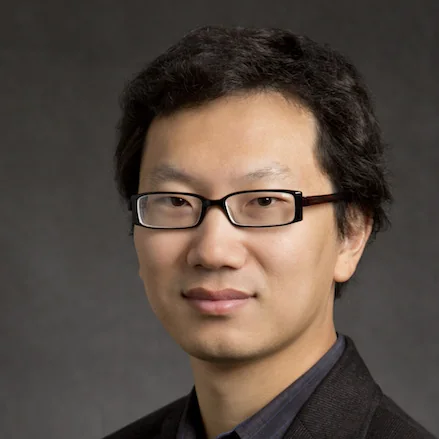
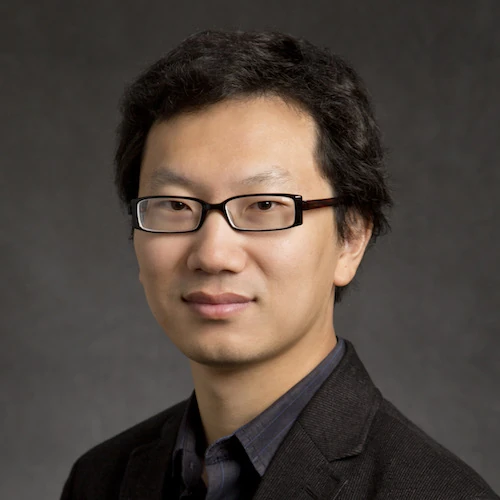
People: center the PI's head in his photo
The photo had been cropped to center the eyes and nose. His head is turned, so
that pushed the head to the right of the frame. It now uses the original
framing, where the whole head sits in the middle. One roster photo with the
same problem is re-cropped from its original.

stamp_assets.py now also stamps images named in a page, each with a hash of
its own file, so a replaced photo is not held back by a cached copy.

diff --git a/research.html b/research.html
@@ -10,12 +10,12 @@
   <meta property="og:type" content="website">
   <meta property="og:title" content="Research | Z Lab">
   <meta property="og:description" content="Matter in extremes, Machine for extremes: the two research domains of the Z Lab at the University of Michigan.">
-  <link rel="icon" href="assets/img/favicon.svg" type="image/svg+xml">
+  <link rel="icon" href="assets/img/favicon.svg?v=831e58c5df" type="image/svg+xml">
   <link rel="preconnect" href="https://fonts.googleapis.com">
   <link rel="preconnect" href="https://fonts.gstatic.com" crossorigin>
   <link rel="stylesheet" href="https://fonts.googleapis.com/css2?family=IBM+Plex+Mono:wght@400;500&amp;family=IBM+Plex+Sans:wght@400;500;600&amp;family=STIX+Two+Text:ital,wght@0,400..700;1,400..700&amp;display=swap">
-  <link rel="stylesheet" href="assets/css/style.css?v=a803def3a6">
-  <script src="assets/js/theme-init.js?v=a803def3a6"></script>
+  <link rel="stylesheet" href="assets/css/style.css?v=a0ee6fa66f">
+  <script src="assets/js/theme-init.js?v=a0ee6fa66f"></script>
 </head>
 <body>
   <a class="skip-link" href="#main">Skip to content</a>
@@ -235,7 +235,7 @@
         <figure class="unit-fig" data-fig="go2w">
           <div class="plate">
             <div class="stage3" data-stage role="img" tabindex="0" aria-label="A line drawing of a Unitree Go2-W, a four-legged robot with a wheel at the end of each leg. It rolls in from the left on its wheels, crouches, pushes off, turns a full backward somersault in the air with its legs tucked, lands on its wheels, and rolls away to the right. Drag sideways, or use the left and right arrow keys, to see it from another side.">
-              <img class="go2w-poster" src="assets/img/go2w-flip.webp" alt="" width="1225" height="800" loading="lazy">
+              <img class="go2w-poster" src="assets/img/go2w-flip.webp?v=b69d685136" alt="" width="1225" height="800" loading="lazy">
             </div>
             <div class="fig-controls">
               <button class="btn btn--small" type="button" data-play aria-pressed="true">Pause</button>
@@ -280,14 +280,14 @@
 
       <article class="unit unit--team" id="atombot">
         <div class="unit-text">
-          <button class="atombot-mark" type="button" data-atombot aria-label="The Atombot mark. Play its animation again."><img src="assets/img/atombot-mark.webp" alt="" width="640" height="588"></button>
+          <button class="atombot-mark" type="button" data-atombot aria-label="The Atombot mark. Play its animation again."><img src="assets/img/atombot-mark.webp?v=46dc0d3f2f" alt="" width="640" height="588"></button>
           <h3>Atombot</h3>
           <p>The lab's student robotics team: about 50 students building swarm and wheel-legged robots with the Multidisciplinary Design Program.</p>
           <p class="unit-links"><a href="https://mdp.engin.umich.edu/research_teams/atombot-27/">Join through MDP</a><a href="people.html#atombot-alums">Alums</a><a href="calendar.html#atombot-calendar">Calendar</a></p>
         </div>
         <figure class="unit-fig unit-fig--photo">
-          <a href="assets/img/atombot-kickoff.webp" aria-label="Open the Atombot kickoff photo at full size">
-            <img src="assets/img/atombot-kickoff-800.webp" srcset="assets/img/atombot-kickoff-800.webp 800w, assets/img/atombot-kickoff.webp 1600w" sizes="(max-width: 1099px) 92vw, 660px" width="1600" height="883" loading="lazy" decoding="async" alt="A large group of Atombot team members standing together below a projection screen that shows the Atombot mark and the words Atombot, Z Lab.">
+          <a href="assets/img/atombot-kickoff.webp?v=c0416d7151" aria-label="Open the Atombot kickoff photo at full size">
+            <img src="assets/img/atombot-kickoff-800.webp?v=9d99900955" srcset="assets/img/atombot-kickoff-800.webp 800w, assets/img/atombot-kickoff.webp 1600w" sizes="(max-width: 1099px) 92vw, 660px" width="1600" height="883" loading="lazy" decoding="async" alt="A large group of Atombot team members standing together below a projection screen that shows the Atombot mark and the words Atombot, Z Lab.">
           </a>
           <figcaption class="caption">Atombot project kickoff, with support from the Multidisciplinary Design Program.</figcaption>
         </figure>
@@ -300,8 +300,8 @@
         <p>The lab's own overview: Matter on the left, Machine on the right.</p>
       </div>
       <figure class="overview">
-        <a href="assets/img/overview.webp" aria-label="Open the overview figure at full size">
-          <img src="assets/img/overview.webp" width="1600" height="900" loading="lazy" decoding="async" alt="Overview slide titled Z Lab, Matter and Machine. The Matter half covers rare events and long timescale phenomena, the physics and chemistry of liquids, glasses, and complex fluids (water, metallic, ionic, molten salts), and neutron scattering, sources, and instrumentation. The Machine half covers robots in extreme environments, soft robots and human-compatible machines with an untethered soft robotic arm and the Kraken simulation platform, swarm robots and collective intelligence, and wheel-leg hybrid robots.">
+        <a href="assets/img/overview.webp?v=374e2c8b13" aria-label="Open the overview figure at full size">
+          <img src="assets/img/overview.webp?v=374e2c8b13" width="1600" height="900" loading="lazy" decoding="async" alt="Overview slide titled Z Lab, Matter and Machine. The Matter half covers rare events and long timescale phenomena, the physics and chemistry of liquids, glasses, and complex fluids (water, metallic, ionic, molten salts), and neutron scattering, sources, and instrumentation. The Machine half covers robots in extreme environments, soft robots and human-compatible machines with an untethered soft robotic arm and the Kraken simulation platform, swarm robots and collective intelligence, and wheel-leg hybrid robots.">
         </a>
       </figure>
     </section>
@@ -344,19 +344,19 @@
     </div>
   </footer>
 
-  <script src="assets/js/site.js?v=a803def3a6" defer></script>
-  <script src="assets/js/atombot-mark.js?v=a803def3a6" defer></script>
-  <script src="assets/js/figkit.js?v=a803def3a6" defer></script>
-  <script src="assets/js/fig3d.js?v=a803def3a6" defer></script>
-  <script src="assets/js/figs/flood.js?v=a803def3a6" defer></script>
-  <script src="assets/js/figs/water-density.js?v=a803def3a6" defer></script>
-  <script src="assets/js/figs/clocks-data.js?v=a803def3a6" defer></script>
-  <script src="assets/js/figs/clocks.js?v=a803def3a6" defer></script>
-  <script src="assets/js/figs/scale.js?v=a803def3a6" defer></script>
-  <script src="assets/js/figs/arm.js?v=a803def3a6" defer></script>
-  <script src="assets/js/figs/soft.js?v=a803def3a6" defer></script>
-  <script src="assets/js/figs/swarm.js?v=a803def3a6" defer></script>
-  <script src="assets/js/figs/go2w-model.js?v=a803def3a6" defer></script>
-  <script src="assets/js/figs/go2w.js?v=a803def3a6" defer></script>
+  <script src="assets/js/site.js?v=a0ee6fa66f" defer></script>
+  <script src="assets/js/atombot-mark.js?v=a0ee6fa66f" defer></script>
+  <script src="assets/js/figkit.js?v=a0ee6fa66f" defer></script>
+  <script src="assets/js/fig3d.js?v=a0ee6fa66f" defer></script>
+  <script src="assets/js/figs/flood.js?v=a0ee6fa66f" defer></script>
+  <script src="assets/js/figs/water-density.js?v=a0ee6fa66f" defer></script>
+  <script src="assets/js/figs/clocks-data.js?v=a0ee6fa66f" defer></script>
+  <script src="assets/js/figs/clocks.js?v=a0ee6fa66f" defer></script>
+  <script src="assets/js/figs/scale.js?v=a0ee6fa66f" defer></script>
+  <script src="assets/js/figs/arm.js?v=a0ee6fa66f" defer></script>
+  <script src="assets/js/figs/soft.js?v=a0ee6fa66f" defer></script>
+  <script src="assets/js/figs/swarm.js?v=a0ee6fa66f" defer></script>
+  <script src="assets/js/figs/go2w-model.js?v=a0ee6fa66f" defer></script>
+  <script src="assets/js/figs/go2w.js?v=a0ee6fa66f" defer></script>
 </body>
 </html>

diff --git a/index.html b/index.html
@@ -10,12 +10,12 @@
   <meta property="og:type" content="website">
   <meta property="og:title" content="Z Lab | Matter and Machine | University of Michigan">
   <meta property="og:description" content="The Z Lab at the University of Michigan studies matter in extremes and builds machines for extremes: liquids, glasses, and complex fluids, neutron scattering, and robots for extreme environments.">
-  <link rel="icon" href="assets/img/favicon.svg" type="image/svg+xml">
+  <link rel="icon" href="assets/img/favicon.svg?v=831e58c5df" type="image/svg+xml">
   <link rel="preconnect" href="https://fonts.googleapis.com">
   <link rel="preconnect" href="https://fonts.gstatic.com" crossorigin>
   <link rel="stylesheet" href="https://fonts.googleapis.com/css2?family=IBM+Plex+Mono:wght@400;500&amp;family=IBM+Plex+Sans:wght@400;500;600&amp;family=STIX+Two+Text:ital,wght@0,400..700;1,400..700&amp;display=swap">
-  <link rel="stylesheet" href="assets/css/style.css?v=a803def3a6">
-  <script src="assets/js/theme-init.js?v=a803def3a6"></script>
+  <link rel="stylesheet" href="assets/css/style.css?v=a0ee6fa66f">
+  <script src="assets/js/theme-init.js?v=a0ee6fa66f"></script>
 </head>
 <body>
   <a class="skip-link" href="#main">Skip to content</a>
@@ -81,7 +81,7 @@
     </section>
 
     <section class="section sheet band" aria-labelledby="home-atombot">
-      <button class="atombot-mark" type="button" data-atombot aria-label="The Atombot mark. Play its animation again."><img src="assets/img/atombot-mark.webp" alt="" width="640" height="588"></button>
+      <button class="atombot-mark" type="button" data-atombot aria-label="The Atombot mark. Play its animation again."><img src="assets/img/atombot-mark.webp?v=46dc0d3f2f" alt="" width="640" height="588"></button>
       <div class="band-text">
         <h2 id="home-atombot">Atombot</h2>
         <p>The lab's student robotics team builds swarm robots and wheel-legged robots, working with the Multidisciplinary Design Program.</p>
@@ -150,10 +150,10 @@
     </div>
   </footer>
 
-  <script src="data/publications.js?v=a803def3a6" defer></script>
-  <script src="assets/js/site.js?v=a803def3a6" defer></script>
-  <script src="assets/js/atombot-mark.js?v=a803def3a6" defer></script>
-  <script src="assets/js/liquid.js?v=a803def3a6" defer></script>
-  <script src="assets/js/home.js?v=a803def3a6" defer></script>
+  <script src="data/publications.js?v=a0ee6fa66f" defer></script>
+  <script src="assets/js/site.js?v=a0ee6fa66f" defer></script>
+  <script src="assets/js/atombot-mark.js?v=a0ee6fa66f" defer></script>
+  <script src="assets/js/liquid.js?v=a0ee6fa66f" defer></script>
+  <script src="assets/js/home.js?v=a0ee6fa66f" defer></script>
 </body>
 </html>

diff --git a/people.html b/people.html
@@ -10,12 +10,12 @@
   <meta property="og:type" content="website">
   <meta property="og:title" content="People | Z Lab">
   <meta property="og:description" content="The principal investigator, postdocs, students, and alums of the Z Lab at the University of Michigan.">
-  <link rel="icon" href="assets/img/favicon.svg" type="image/svg+xml">
+  <link rel="icon" href="assets/img/favicon.svg?v=831e58c5df" type="image/svg+xml">
   <link rel="preconnect" href="https://fonts.googleapis.com">
   <link rel="preconnect" href="https://fonts.gstatic.com" crossorigin>
   <link rel="stylesheet" href="https://fonts.googleapis.com/css2?family=IBM+Plex+Mono:wght@400;500&amp;family=IBM+Plex+Sans:wght@400;500;600&amp;family=STIX+Two+Text:ital,wght@0,400..700;1,400..700&amp;display=swap">
-  <link rel="stylesheet" href="assets/css/style.css?v=a803def3a6">
-  <script src="assets/js/theme-init.js?v=a803def3a6"></script>
+  <link rel="stylesheet" href="assets/css/style.css?v=a0ee6fa66f">
+  <script src="assets/js/theme-init.js?v=a0ee6fa66f"></script>
 </head>
 <body>
   <a class="skip-link" href="#main">Skip to content</a>
@@ -55,7 +55,7 @@
       <div>
         <div class="pi">
           <div class="pi-photo">
-            <img src="assets/img/people/y-z.webp" width="500" height="500" alt="Portrait of Y Z">
+            <img src="assets/img/people/y-z.webp?v=d9de868593" width="500" height="500" alt="Portrait of Y Z">
           </div>
           <div>
             <p class="label">Principal investigator</p>
@@ -181,8 +181,8 @@
     </div>
   </footer>
 
-  <script src="data/people.js?v=a803def3a6" defer></script>
-  <script src="assets/js/site.js?v=a803def3a6" defer></script>
-  <script src="assets/js/people.js?v=a803def3a6" defer></script>
+  <script src="data/people.js?v=a0ee6fa66f" defer></script>
+  <script src="assets/js/site.js?v=a0ee6fa66f" defer></script>
+  <script src="assets/js/people.js?v=a0ee6fa66f" defer></script>
 </body>
 </html>

diff --git a/publications.html b/publications.html
@@ -10,12 +10,12 @@
   <meta property="og:type" content="website">
   <meta property="og:title" content="Publications | Z Lab">
   <meta property="og:description" content="Journal articles and conference proceedings from the Z Lab, searchable by title, author, journal, and year.">
-  <link rel="icon" href="assets/img/favicon.svg" type="image/svg+xml">
+  <link rel="icon" href="assets/img/favicon.svg?v=831e58c5df" type="image/svg+xml">
   <link rel="preconnect" href="https://fonts.googleapis.com">
   <link rel="preconnect" href="https://fonts.gstatic.com" crossorigin>
   <link rel="stylesheet" href="https://fonts.googleapis.com/css2?family=IBM+Plex+Mono:wght@400;500&amp;family=IBM+Plex+Sans:wght@400;500;600&amp;family=STIX+Two+Text:ital,wght@0,400..700;1,400..700&amp;display=swap">
-  <link rel="stylesheet" href="assets/css/style.css?v=a803def3a6">
-  <script src="assets/js/theme-init.js?v=a803def3a6"></script>
+  <link rel="stylesheet" href="assets/css/style.css?v=a0ee6fa66f">
+  <script src="assets/js/theme-init.js?v=a0ee6fa66f"></script>
 </head>
 <body>
   <a class="skip-link" href="#main">Skip to content</a>
@@ -154,8 +154,8 @@
     </div>
   </footer>
 
-  <script src="data/publications.js?v=a803def3a6" defer></script>
-  <script src="assets/js/site.js?v=a803def3a6" defer></script>
-  <script src="assets/js/publications.js?v=a803def3a6" defer></script>
+  <script src="data/publications.js?v=a0ee6fa66f" defer></script>
+  <script src="assets/js/site.js?v=a0ee6fa66f" defer></script>
+  <script src="assets/js/publications.js?v=a0ee6fa66f" defer></script>
 </body>
 </html>

diff --git a/teaching.html b/teaching.html
@@ -10,12 +10,12 @@
   <meta property="og:type" content="website">
   <meta property="og:title" content="Teaching | Z Lab">
   <meta property="og:description" content="Courses taught by Y Z at the University of Michigan and the University of Illinois Urbana-Champaign.">
-  <link rel="icon" href="assets/img/favicon.svg" type="image/svg+xml">
+  <link rel="icon" href="assets/img/favicon.svg?v=831e58c5df" type="image/svg+xml">
   <link rel="preconnect" href="https://fonts.googleapis.com">
   <link rel="preconnect" href="https://fonts.gstatic.com" crossorigin>
   <link rel="stylesheet" href="https://fonts.googleapis.com/css2?family=IBM+Plex+Mono:wght@400;500&amp;family=IBM+Plex+Sans:wght@400;500;600&amp;family=STIX+Two+Text:ital,wght@0,400..700;1,400..700&amp;display=swap">
-  <link rel="stylesheet" href="assets/css/style.css?v=a803def3a6">
-  <script src="assets/js/theme-init.js?v=a803def3a6"></script>
+  <link rel="stylesheet" href="assets/css/style.css?v=a0ee6fa66f">
+  <script src="assets/js/theme-init.js?v=a0ee6fa66f"></script>
 </head>
 <body>
   <a class="skip-link" href="#main">Skip to content</a>
@@ -98,6 +98,6 @@
     </div>
   </footer>
 
-  <script src="assets/js/site.js?v=a803def3a6" defer></script>
+  <script src="assets/js/site.js?v=a0ee6fa66f" defer></script>
 </body>
 </html>

diff --git a/code.html b/code.html
@@ -10,12 +10,12 @@
   <meta property="og:type" content="website">
   <meta property="og:title" content="Software | Z Lab">
   <meta property="og:description" content="Open tools from the Z Lab, including LiquidLib and Kraken.">
-  <link rel="icon" href="assets/img/favicon.svg" type="image/svg+xml">
+  <link rel="icon" href="assets/img/favicon.svg?v=831e58c5df" type="image/svg+xml">
   <link rel="preconnect" href="https://fonts.googleapis.com">
   <link rel="preconnect" href="https://fonts.gstatic.com" crossorigin>
   <link rel="stylesheet" href="https://fonts.googleapis.com/css2?family=IBM+Plex+Mono:wght@400;500&amp;family=IBM+Plex+Sans:wght@400;500;600&amp;family=STIX+Two+Text:ital,wght@0,400..700;1,400..700&amp;display=swap">
-  <link rel="stylesheet" href="assets/css/style.css?v=a803def3a6">
-  <script src="assets/js/theme-init.js?v=a803def3a6"></script>
+  <link rel="stylesheet" href="assets/css/style.css?v=a0ee6fa66f">
+  <script src="assets/js/theme-init.js?v=a0ee6fa66f"></script>
 </head>
 <body>
   <a class="skip-link" href="#main">Skip to content</a>
@@ -115,6 +115,6 @@
     </div>
   </footer>
 
-  <script src="assets/js/site.js?v=a803def3a6" defer></script>
+  <script src="assets/js/site.js?v=a0ee6fa66f" defer></script>
 </body>
 </html>

diff --git a/calendar.html b/calendar.html
@@ -10,12 +10,12 @@
   <meta property="og:type" content="website">
   <meta property="og:title" content="Calendar | Z Lab">
   <meta property="og:description" content="The Z Lab and Atombot calendars.">
-  <link rel="icon" href="assets/img/favicon.svg" type="image/svg+xml">
+  <link rel="icon" href="assets/img/favicon.svg?v=831e58c5df" type="image/svg+xml">
   <link rel="preconnect" href="https://fonts.googleapis.com">
   <link rel="preconnect" href="https://fonts.gstatic.com" crossorigin>
   <link rel="stylesheet" href="https://fonts.googleapis.com/css2?family=IBM+Plex+Mono:wght@400;500&amp;family=IBM+Plex+Sans:wght@400;500;600&amp;family=STIX+Two+Text:ital,wght@0,400..700;1,400..700&amp;display=swap">
-  <link rel="stylesheet" href="assets/css/style.css?v=a803def3a6">
-  <script src="assets/js/theme-init.js?v=a803def3a6"></script>
+  <link rel="stylesheet" href="assets/css/style.css?v=a0ee6fa66f">
+  <script src="assets/js/theme-init.js?v=a0ee6fa66f"></script>
 </head>
 <body>
   <a class="skip-link" href="#main">Skip to content</a>
@@ -101,6 +101,6 @@
     </div>
   </footer>
 
-  <script src="assets/js/site.js?v=a803def3a6" defer></script>
+  <script src="assets/js/site.js?v=a0ee6fa66f" defer></script>
 </body>
 </html>

diff --git a/404.html b/404.html
@@ -18,12 +18,12 @@
       document.head.appendChild(base);
     })();
   </script>
-  <link rel="icon" href="assets/img/favicon.svg" type="image/svg+xml">
+  <link rel="icon" href="assets/img/favicon.svg?v=831e58c5df" type="image/svg+xml">
   <link rel="preconnect" href="https://fonts.googleapis.com">
   <link rel="preconnect" href="https://fonts.gstatic.com" crossorigin>
   <link rel="stylesheet" href="https://fonts.googleapis.com/css2?family=IBM+Plex+Mono:wght@400;500&amp;family=IBM+Plex+Sans:wght@400;500;600&amp;family=STIX+Two+Text:ital,wght@0,400..700;1,400..700&amp;display=swap">
-  <link rel="stylesheet" href="assets/css/style.css?v=a803def3a6">
-  <script src="assets/js/theme-init.js?v=a803def3a6"></script>
+  <link rel="stylesheet" href="assets/css/style.css?v=a0ee6fa66f">
+  <script src="assets/js/theme-init.js?v=a0ee6fa66f"></script>
 </head>
 <body>
   <a class="skip-link" href="#main">Skip to content</a>
@@ -93,6 +93,6 @@
     </div>
   </footer>
 
-  <script src="assets/js/site.js?v=a803def3a6" defer></script>
+  <script src="assets/js/site.js?v=a0ee6fa66f" defer></script>
 </body>
 </html>

diff --git a/tools/stamp_assets.py b/tools/stamp_assets.py
@@ -14,6 +14,9 @@ Run it after changing anything under assets/ or data/, before publishing:
 The version is a hash of every file under assets/ and data/, so it changes exactly when
 one of them does, and running the tool twice changes nothing. Scripts that fetch further
 files themselves (the game, the robot's model) pass their own version along.
+
+Images named in a page (src="assets/img/...") are stamped too, each with a hash of that one
+file, so a replaced photo shows at once and the others stay cached.
 """
 import glob
 import hashlib
@@ -23,6 +26,7 @@ import sys
 
 ROOT = os.path.normpath(os.path.join(os.path.dirname(os.path.abspath(__file__)), ".."))
 LINK = re.compile(r'\b(href|src)="((?:assets|data)/[^"?#]+\.(?:css|js))(?:\?v=[0-9a-f]+)?"')
+IMAGE = re.compile(r'\b(href|src)="(assets/img/[^"?#]+\.(?:webp|png|jpe?g|gif|svg|avif))(?:\?v=[0-9a-f]+)?"')
 
 
 def version():
@@ -40,13 +44,33 @@ def version():
     return digest.hexdigest()[:10]
 
 
+def file_version(path):
+    """A hash of one file, or None if a page names a file that is not there."""
+    full = os.path.join(ROOT, path)
+    if not os.path.isfile(full):
+        return None
+    with open(full, "rb") as fh:
+        return hashlib.sha256(fh.read()).hexdigest()[:10]
+
+
+def stamp_image(match, missing):
+    v = file_version(match.group(2))
+    if v is None:
+        missing.add(match.group(2))
+        return match.group(0)
+    return '%s="%s?v=%s"' % (match.group(1), match.group(2), v)
+
+
 def main(check):
     v = version()
     stale = []
+    missing = set()
     for page in sorted(glob.glob(os.path.join(ROOT, "*.html"))):
         with open(page, encoding="utf-8") as fh:
             old = fh.read()
         new, count = LINK.subn(lambda m: '%s="%s?v=%s"' % (m.group(1), m.group(2), v), old)
+        new, images = IMAGE.subn(lambda m: stamp_image(m, missing), new)
+        count += images
         name = os.path.basename(page)
         if new != old:
             stale.append(name)
@@ -55,6 +79,8 @@ def main(check):
                     fh.write(new)
         print("%-18s %2d links %s" % (name, count, "out of date" if new != old and check else "stamped" if new != old else "current"))
     print("version", v)
+    if missing:
+        sys.exit("a page names an image that does not exist: " + ", ".join(sorted(missing)))
     if check and stale:
         sys.exit("out of date: " + ", ".join(stale) + ". Run python3 tools/stamp_assets.py")
 

diff --git a/README.md b/README.md
@@ -93,9 +93,10 @@ each file explains the fields.
 - **Add a paper:** `data/publications.js`. Copy an entry and paste it at the top.
   The Publications page and the home page list update themselves.
 - **Add or move a person:** `data/people.js`. Drop their photo in `assets/img/people/`,
-  cropped square with the face centered and the eyes a little above the middle so it lines
-  up with the rest (about 560 px a side is plenty; WebP or JPEG). People without a photo
-  get a monogram. Moving someone to `alumni` is a cut and paste.
+  cropped square with the head centered and the eyes a little above the middle so it lines
+  up with the rest (about 560 px a side is plenty; WebP or JPEG). Center the whole head,
+  hair included, not the eyes and nose: when a head is turned, centering the features
+  pushes the head to one side of the frame. People without a photo get a monogram. Moving someone to `alumni` is a cut and paste.
 - **Everything else** (research text, software, courses) is ordinary HTML in the page files.
   The header and footer are repeated in each page, so a navigation change means editing
   all eight.
@@ -215,8 +216,9 @@ python3 tools/stamp_assets.py
 It stamps every page's links to the site's own styles and scripts with a version
 (`style.css?v=...`) that changes whenever one of those files does. Without it, a returning
 visitor's browser can show the new page with an old cached stylesheet or script, and the
-page looks broken until the old copy expires. `python3 tools/stamp_assets.py --check`
-changes nothing and fails if a page is out of date.
+page looks broken until the old copy expires. Images named in a page are stamped as well,
+each with a hash of its own file, so a replaced picture shows at once. `python3
+tools/stamp_assets.py --check` changes nothing and fails if a page is out of date.
 
 ## Previewing locally
 
